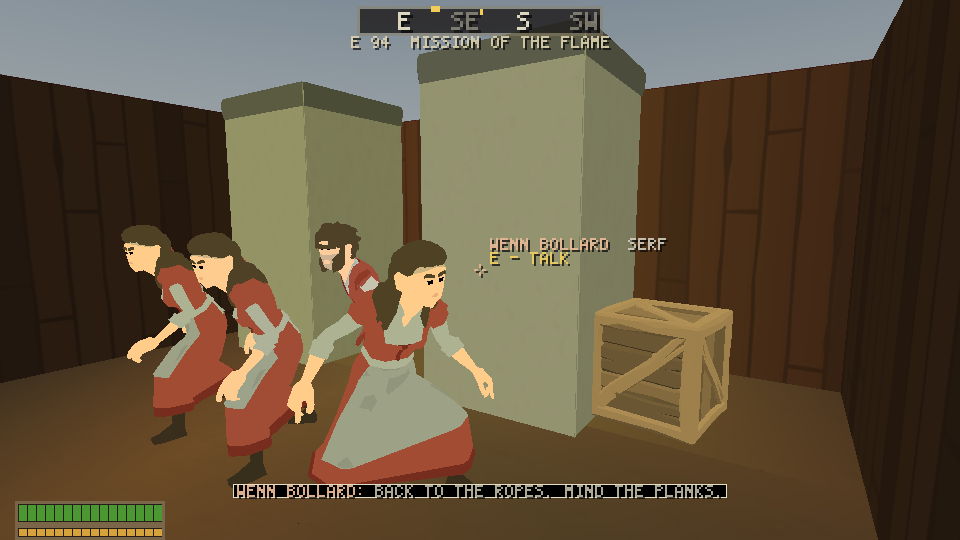
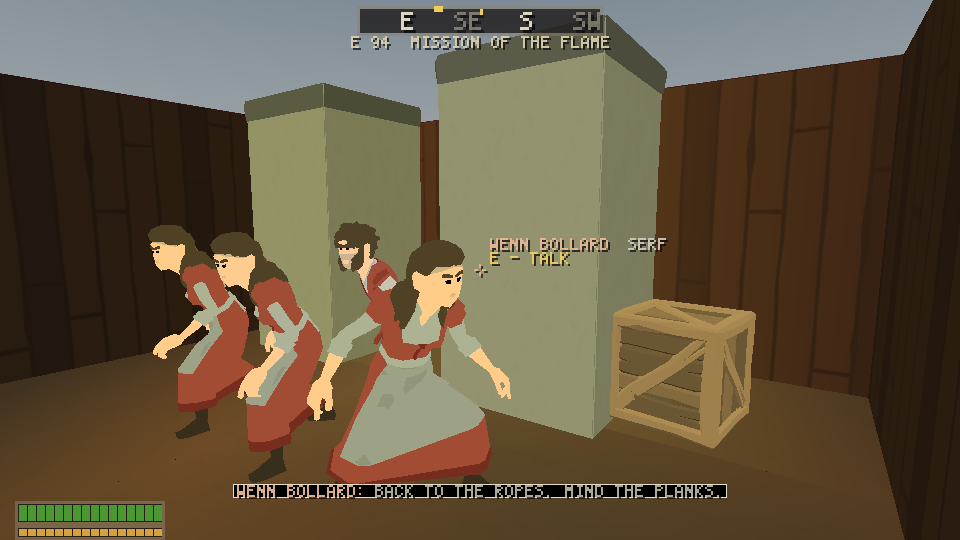
wip(voice): the six frames reshot off the gated 8435c2f2 exe -- the name plate clear of every speaker and of the near faces round them, at every lens the options page offers
The README's honest bound carries the fourth round: why a bearing
constant was the wrong tool, what the lens search actually guarantees
(never the speaker; otherwise the furthest body the corner allows), and
that the composition is pinned at seventy, ninety and a hundred and ten
degrees rather than at the default alone.

diff --git a/docs/frames/voice/README.md b/docs/frames/voice/README.md
@@ -1,7 +1,7 @@
 # The street talks
 
 Every frame in here is the real `dist\granadad.exe` on the gated Windows build (branch
-`lane/voice`, commit `c2f2e7e9`, with wip's street senses, kit and pull pack merged under it),
+`lane/voice`, commit `8435c2f2`, with wip's street senses, kit and pull pack merged under it),
 playing the voice channel through the real verbs. Nothing is staged. Each run prints a summary
 line next to the picture (`voice end=... beats=n/N ... key=... speaker="..." row="..."
 inview=yes|no off=Ndeg apart=T.T`) and the exact line that shot each frame is in the table. A run
@@ -214,18 +214,33 @@ both halves: a witness to a landed blow ends up facing the player, and the memor
 lane's.** The critic's own first question of any frame -- can I tell who is talking -- and half
 the set failed it.
 
-THE PLATE WAS ON THE FACE. The crosshair's name plate is drawn at the middle of the frame and
-runs to the right of it, so a body composed DEAD CENTRE wears it: `pass`, `react` and
-`overheard` all had "<SOMEBODY> SERF / E - TALK" printed across the speaker's eyes and mouth,
-and because the prompt names the nearest body in REACH rather than the one you are looking at,
-two of them named somebody else while doing it. The prompt's rule is not this lane's to change
-(every verb in the game reads it, and a look-based prompt is the crosshair's own pass), but
-where this lane stands its camera is: every composed look now puts its subject a sixth of the
-frame off centre -- twelve degrees at ninety of view, the thirds a photographer would use --
-and the plate lands on the wall behind them. The overheard shot carries half the angle the pair
-opens plus a body's width beside it, because a pair on the street is rarely just a pair and the
-third serf who stopped to listen wore the label. `off` has a floor in the suite now as well as
-a ceiling: a frame that drifts back to centre goes red.
+THE PLATE WAS ON THE FACE, AND THEN IT WAS ON EVERYBODY ELSE'S. The crosshair's name plate is
+drawn at the middle of the frame and runs to the right of it, so a body composed DEAD CENTRE
+wears it: `pass`, `react` and `overheard` all had "<SOMEBODY> SERF / E - TALK" printed across
+the speaker's eyes and mouth, and because the prompt names the nearest body in REACH rather
+than the one you are looking at, two of them named somebody else while doing it. The prompt's
+rule is not this lane's to change (every verb in the game reads it, and a look-based prompt is
+the crosshair's own pass), but where this lane stands its camera is.
+
+The first answer was a constant twelve degrees to the left, and it solved the wrong half: the
+speaker came out from under the label and three bystanders went under it instead -- the `pass`
+frame printed a name across three serfs at the end of the street, one who was not in the
+picture at all. Whether a label lands on a face is a question about the LENS, not about a
+bearing, so `composeYawOffset` asks it that way: it walks candidate turns out from the smallest
+that clears the plate, both sides -- and the two sides do not want the same clearance, because
+the plate runs rightward from the middle, so a subject to the LEFT need only clear the middle
+by its own shoulder while one to the RIGHT has to clear the whole width of the label (the draft
+that guarded only the left case promptly chose the right one and printed the name across the
+face it was composing) -- and takes the turn that leaves the fewest faces under the label,
+nearest counted worst. In a room as full as the Gull no turn clears everybody: the guarantee is
+that the SPEAKER is never under it, and that what is, is the furthest body the corner allows.
+
+And it is all FRACTIONS OF THE FRAME, not counts of degrees, because the field of view is a
+slider on the options page. Twelve degrees is a sixth of a ninety-degree frame and most of the
+way out of a seventy-degree one: the constant pushed the overheard trio clean off a `--fov=70`
+frame, which the summary's own `inview=no` caught and no case did. `test_street_voice.cpp` now
+plays every composed ending at seventy, ninety and a hundred and ten and asks for the speaker
+in the frame, off the plate, at each.
 
 AND THE ROOM GETS A SECOND AND A HALF. `react` fired the shutter the step the row landed and
 caught a bouncer crossing the lens half in frame, his head wider at that range than the
@@ -283,10 +298,10 @@ to in the Gull holds still. The worded reaction is never a number. Two pass line
 than the cooldown. All seven `--voice=` endings land every beat they owe, AND THE FRAME IS OF THE
 SPEAKER: at the shutter of every composed ending the body the frame is about is in the field of
 view with a clear lens line and nobody drawn in the way (`inview=yes`), and OFF THE PLATE but
-inside the frame -- at least a tenth of the frame off centre so the crosshair's own label does
-not land on the speaker's face, and at most a third of it so nobody is heading for the edge
-(further out again for the overheard group, which has to clear three bodies, and between ten and
-twenty-five degrees for the watch reveal, which stands Cull clear of the drawn blade on purpose).
+inside the frame -- AT SEVENTY, NINETY AND A HUNDRED AND TEN DEGREES OF VIEW, every composed
+ending, because the composition is a fraction of the frame and a case that only ever asked at
+ninety would not know. The watch reveal keeps its own ten-to-twenty-five degrees, which was
+always about standing Cull clear of the drawn blade rather than the plate.
 The farewell and moved stands sit a
 diagonal off at the least (never the tile beside) and the talk reach at the most; the watch
 reveal's stand is three tiles from Cull's stool at the least. The lens's line and the sim's
